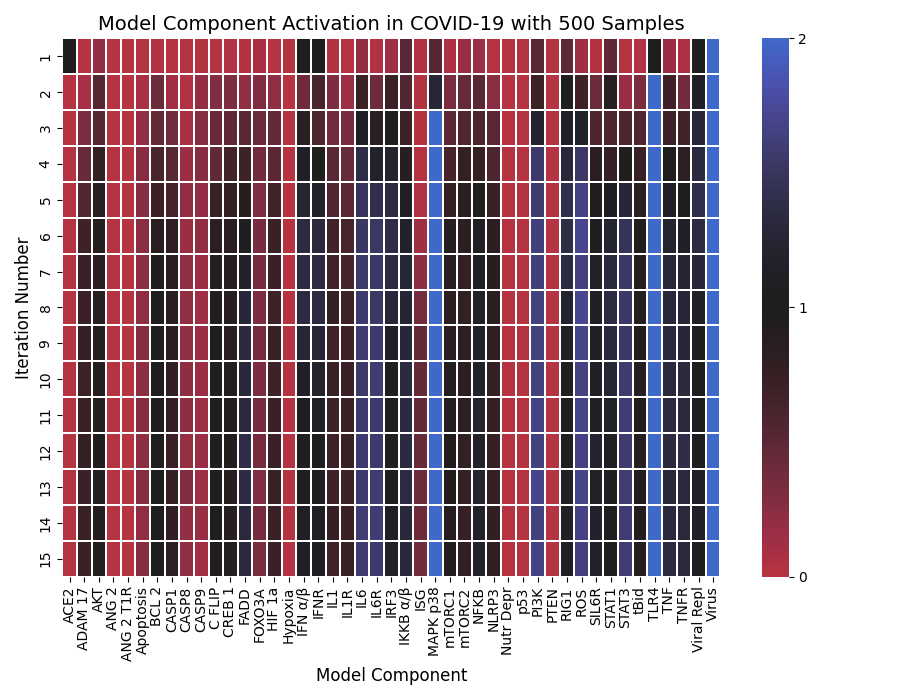
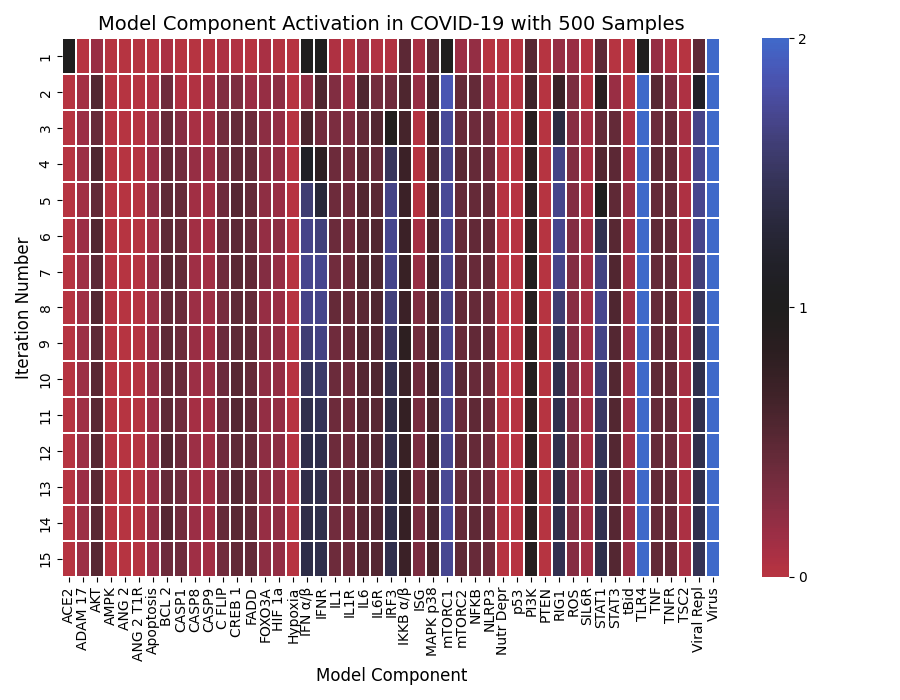
Changes to GBN/QN based on lit review

diff --git a/GBN.py b/GBN.py
@@ -18,14 +18,14 @@ def NOT(value):
 
 class Pneumocyte:
     def __init__(self, x=None):
-        components = ["ACE2", "ADAM_17", "AKT", "ANG_2", "ANG_2_T1R", 
+        components = ["ACE2", "ADAM_17", "AKT", "AMPK", "ANG_2", "ANG_2_T1R", 
                       "Apoptosis", "BCL_2", "CASP1", "CASP8", "CASP9", "C_FLIP", 
                       "CREB_1", "FADD", "FOXO3A", "HIF_1a", "Hypoxia", "IFN_a_b", 
                       "IFNR", "IL1", "IL1R", "IL6", "IL6R", "IRF3", "IKKB_a_b", 
                       "ISG", "MAPK_p38", "mTORC1", "mTORC2", "NFKB", "NLRP3", 
                       "Nutr_Depr", "p53", "PI3K", "PTEN", "RIG1", "ROS", "SIL6R", 
-                      "STAT1", "STAT3", "tBid", "TLR4", "TNF", "TNFR", "Viral_Repl", 
-                      "Virus"]
+                      "STAT1", "STAT3", "tBid", "TLR4", "TNF", "TNFR", "TSC2",
+                      "Viral_Repl", "Virus"]
         if x is None:
             self.x = {component: 0 for component in components}
         else:
@@ -36,7 +36,9 @@ class Pneumocyte:
     def ADAM_17(self):
         return OR(self.x["ANG_2_T1R"], self.x["HIF_1a"])
     def AKT(self):
-        return OR(self.x["mTORC2"], self.x["PI3K"], self.x["FOXO3A"])
+        return OR(self.x["mTORC2"], self.x["FOXO3A"], AND(self.x["PI3K"], NOT(self.x["PTEN"])))
+    def AMPK(self):
+        return OR(self.x["Nutr_Depr"], NOT(self.x["AKT"]))
     def ANG_2(self):
         return 0 # not expressed in-vitro
     def ANG_2_T1R(self):
@@ -58,7 +60,7 @@ class Pneumocyte:
     def FADD(self):
         return self.x["TNFR"]
     def FOXO3A(self):
-        return AND(OR(self.x["STAT3"], self.x["MAPK_p38"], self.x["mTORC1"]), 
+        return AND(OR(self.x["STAT3"], self.x["MAPK_p38"], self.x["AMPK"]), 
                    NOT(OR(self.x["IKKB_a_b"], self.x["AKT"])))
     def HIF_1a(self):
         return AND(OR(self.x["NFKB"], self.x["mTORC1"]), 
@@ -87,9 +89,9 @@ class Pneumocyte:
     def MAPK_p38(self):
         return OR(self.x["ANG_2_T1R"], self.x["TLR4"], self.x["ROS"])
     def mTORC1(self):
-        return AND(self.x["AKT"], NOT(self.x["p53"]))
+        return AND(NOT(self.x["TSC2"]), NOT(self.x["FOXO3A"]))
     def mTORC2(self):
-        return self.x["PI3K"]
+        return AND(self.x["PI3K"], self.x["AMPK"])
     def NFKB(self):
         return AND(OR(self.x["IKKB_a_b"], self.x["ROS"]), NOT(self.x["FOXO3A"]))
     def NLRP3(self):
@@ -97,10 +99,9 @@ class Pneumocyte:
     def Nutr_Depr(self):
         return self.x["Nutr_Depr"]
     def p53(self):
-        return AND(OR(self.x["Hypoxia"], self.x["Nutr_Depr"]), NOT(self.x["Virus"]))
+        return AND(OR(self.x["Hypoxia"], self.x["AMPK"]), NOT(self.x["Virus"]))
     def PI3K(self):
-        return AND(OR(self.x["TLR4"], self.x["ROS"], 
-                  self.x["IL6R"]), NOT(self.x['PTEN']))
+        return OR(self.x["TLR4"], self.x["ROS"], self.x["IL6R"])
     def PTEN(self):
         return self.x["p53"]
     def RIG1(self):
@@ -109,7 +110,7 @@ class Pneumocyte:
         return AND(OR(self.x["ANG_2_T1R"], 
                   self.x["MAPK_p38"]), NOT(self.x["FOXO3A"]))
     def SIL6R(self):
-        return AND(self.x["ADAM_17"], self.x["IL6"])
+        return AND(self.x["ADAM_17"], self.x["IL6R"])
     def STAT1(self):
         return self.x["IFNR"]
     def STAT3(self):
@@ -122,8 +123,10 @@ class Pneumocyte:
         return OR(self.x["ADAM_17"], self.x["NFKB"], self.x["MAPK_p38"])
     def TNFR(self):
         return self.x["TNF"]
+    def TSC2(self):
+        return AND(OR(self.x["p53"], self.x["AMPK"], self.x["HIF_1a"]), NOT(self.x["AKT"]))
     def Viral_Repl(self):
-        return AND(OR(self.x["Virus"], self.x["mTORC1"]), NOT(self.x["ISG"]))
+        return AND(AND(self.x["Virus"], self.x["mTORC1"]), NOT(self.x["ISG"]))
     def Virus(self):
         return self.x["Virus"]
     
@@ -168,7 +171,6 @@ def BN(components, n_iter=N_ITER, orders=ORDERS, n_states=N_STATES):
         cell.x["Virus"] = n_states - 1
         cell.x["IFN_a_b"] = n_states - 1
         cell.x["ACE2"] = n_states - 1
-        cell.x["TSC2"] = n_states - 1
         cell.x["Nutr_Depr"] = 0 # n_states - 1
         cell.x["Hypoxia"] = 0
 
@@ -224,7 +226,7 @@ def main():
         fontsize=14)
     
     plt.tight_layout()
-    fig.savefig('GBN_plot_new.png')
+    fig.savefig('GBN_plot.png')
 
     # print each value of components and the corresponding value in the last row of the matrix
     for i in range(len(components)):

diff --git a/QN.py b/QN.py
@@ -20,14 +20,14 @@ def NOT(value):
 
 class Pneumocyte:
     def __init__(self, x=None):
-        components = ["ACE2", "ADAM_17", "AKT", "ANG_2", "ANG_2_T1R", 
+        components = ["ACE2", "ADAM_17", "AKT", "AMPK", "ANG_2", "ANG_2_T1R", 
                       "Apoptosis", "BCL_2", "CASP1", "CASP8", "CASP9", "C_FLIP", 
                       "CREB_1", "FADD", "FOXO3A", "HIF_1a", "Hypoxia", "IFN_a_b", 
                       "IFNR", "IL1", "IL1R", "IL6", "IL6R", "IRF3", "IKKB_a_b", 
                       "ISG", "MAPK_p38", "mTORC1", "mTORC2", "NFKB", "NLRP3", 
                       "Nutr_Depr", "p53", "PI3K", "PTEN", "RIG1", "ROS", "SIL6R", 
-                      "STAT1", "STAT3", "tBid", "TLR4", "TNF", "TNFR", "Viral_Repl", 
-                      "Virus"]
+                      "STAT1", "STAT3", "tBid", "TLR4", "TNF", "TNFR", "TSC2",
+                      "Viral_Repl", "Virus"]
         if x is None:
             self.x = {component: 0 for component in components}
         else:
@@ -38,7 +38,9 @@ class Pneumocyte:
     def ADAM_17(self):
         return OR(self.x["ANG_2_T1R"], self.x["HIF_1a"])
     def AKT(self):
-        return AVG(self.x["mTORC2"], self.x["PI3K"], self.x["FOXO3A"])
+        return AVG(self.x["mTORC2"], self.x["FOXO3A"], self.x["PI3K"] - self.x["PTEN"])
+    def AMPK(self):
+        return self.x["Nutr_Depr"] - self.x["AKT"]
     def ANG_2(self):
         return 0 # not expressed in-vitro
     def ANG_2_T1R(self):
@@ -60,7 +62,7 @@ class Pneumocyte:
     def FADD(self):
         return self.x["TNFR"]
     def FOXO3A(self):
-        return AVG(self.x["STAT3"], self.x["MAPK_p38"], self.x["mTORC1"]) - AVG(self.x["IKKB_a_b"], self.x["AKT"])
+        return AVG(self.x["STAT3"], self.x["MAPK_p38"], self.x["AMPK"]) - AVG(self.x["IKKB_a_b"], self.x["AKT"])
     def HIF_1a(self):
         return AND(AVG(self.x["NFKB"], self.x["mTORC1"]), 
                    AVG(self.x["ROS"], self.x["Hypoxia"]))
@@ -88,9 +90,9 @@ class Pneumocyte:
     def MAPK_p38(self):
         return OR(self.x["ANG_2_T1R"], self.x["TLR4"], self.x["ROS"])
     def mTORC1(self):
-        return self.x["AKT"] - self.x["p53"]
+        return AND(NOT(self.x["TSC2"]), NOT(self.x["FOXO3A"]))
     def mTORC2(self):
-        return self.x["PI3K"]
+        return AVG(self.x["PI3K"], self.x["AMPK"])
     def NFKB(self):
         return AVG(self.x["IKKB_a_b"], self.x["ROS"]) - self.x["FOXO3A"]
     def NLRP3(self):
@@ -98,10 +100,10 @@ class Pneumocyte:
     def Nutr_Depr(self):
         return self.x["Nutr_Depr"]
     def p53(self):
-        return AVG(self.x["Hypoxia"], self.x["Nutr_Depr"]) - self.x["Virus"]
+        return AVG(self.x["Hypoxia"], self.x["AMPK"]) - self.x["Virus"]
     def PI3K(self):
         return AVG(self.x["TLR4"], self.x["ROS"], 
-                  self.x["IL6R"]) - self.x['PTEN']
+                  self.x["IL6R"])
     def PTEN(self):
         return self.x["p53"]
     def RIG1(self):
@@ -110,7 +112,7 @@ class Pneumocyte:
         return OR(self.x["ANG_2_T1R"], 
                   self.x["MAPK_p38"]) - self.x["FOXO3A"]
     def SIL6R(self):
-        return AND(self.x["ADAM_17"], self.x["IL6"])
+        return AND(self.x["ADAM_17"], self.x["IL6R"])
     def STAT1(self):
         return self.x["IFNR"]
     def STAT3(self):
@@ -123,8 +125,10 @@ class Pneumocyte:
         return AVG(self.x["ADAM_17"], self.x["NFKB"], self.x["MAPK_p38"])
     def TNFR(self):
         return self.x["TNF"]
+    def TSC2(self):
+        return AVG(self.x["p53"], self.x["AMPK"], self.x["HIF_1a"]) - self.x["AKT"]
     def Viral_Repl(self):
-        return AVG(self.x["Virus"], self.x["mTORC1"]) - self.x["ISG"]
+        return AND(self.x["Virus"], self.x["mTORC1"]) - self.x["ISG"]
     def Virus(self):
         return self.x["Virus"]
     
@@ -167,7 +171,6 @@ def BN(components, n_iter=N_ITER, orders=ORDERS, n_states=N_STATES):
         cell.x["Virus"] = n_states - 1
         cell.x["IFN_a_b"] = n_states - 1
         cell.x["ACE2"] = n_states - 1
-        cell.x["TSC2"] = n_states - 1
         cell.x["Nutr_Depr"] = 0 # n_states - 1
         cell.x["Hypoxia"] = 0
 
@@ -223,7 +226,7 @@ def main():
         fontsize=14)
     
     plt.tight_layout()
-    fig.savefig('QN_plot_new.png')
+    fig.savefig('QN_plot.png')
 
     # print each value of components and the corresponding value in the last row of the matrix
     for i in range(len(components)):

diff --git a/draw.py b/draw.py
@@ -20,7 +20,8 @@ igraph.graph["fontcolor"] = "black"
 igraph.graph["fontsize"] = "50"
 
 add_style_interactionsigns(igraph)
-for engine in ["dot", "neato", "fdp", "sfdp", "circo", "twopi"]:
+# , "neato", "fdp", "sfdp", "circo", "twopi
+for engine in ["dot"]:
     try:
         igraph2image(igraph, f'bnet_{engine}.png', layout_engine = engine)
     except:
@@ -31,18 +32,20 @@ with open(filename, 'r') as fp:
     lines = fp.readlines()
 all_components = [line.split(',')[0] for line in lines]
 
-exclude = ["Virus", "ACE2"]
+exclude = ["Virus", "IFN_a_b", "ACE2"]
 initial = "".join([str(0) if x not in exclude else str(1)
                   for x in all_components])
 print(initial)
 
-update = "synchronous"
-stg = stgs.primes2stg(primes, update, initial_states=initial)
-for engine in ["dot", "twopi"]:
-    try:
-        stgs.stg2image(stg, f'stg_{engine}.pdf', layout_engine=engine)
-    except:
-        pass
+stg = False
+if stg:
+    update = "synchronous"
+    stg = stgs.primes2stg(primes, update, initial_states=initial)
+    for engine in ["dot", "twopi"]:
+        try:
+            stgs.stg2image(stg, f'stg_{engine}.pdf', layout_engine=engine)
+        except:
+            pass
 
 '''total = 5
 activities = [initial] + ["".join([str(np.random.choice([0, 1]))
